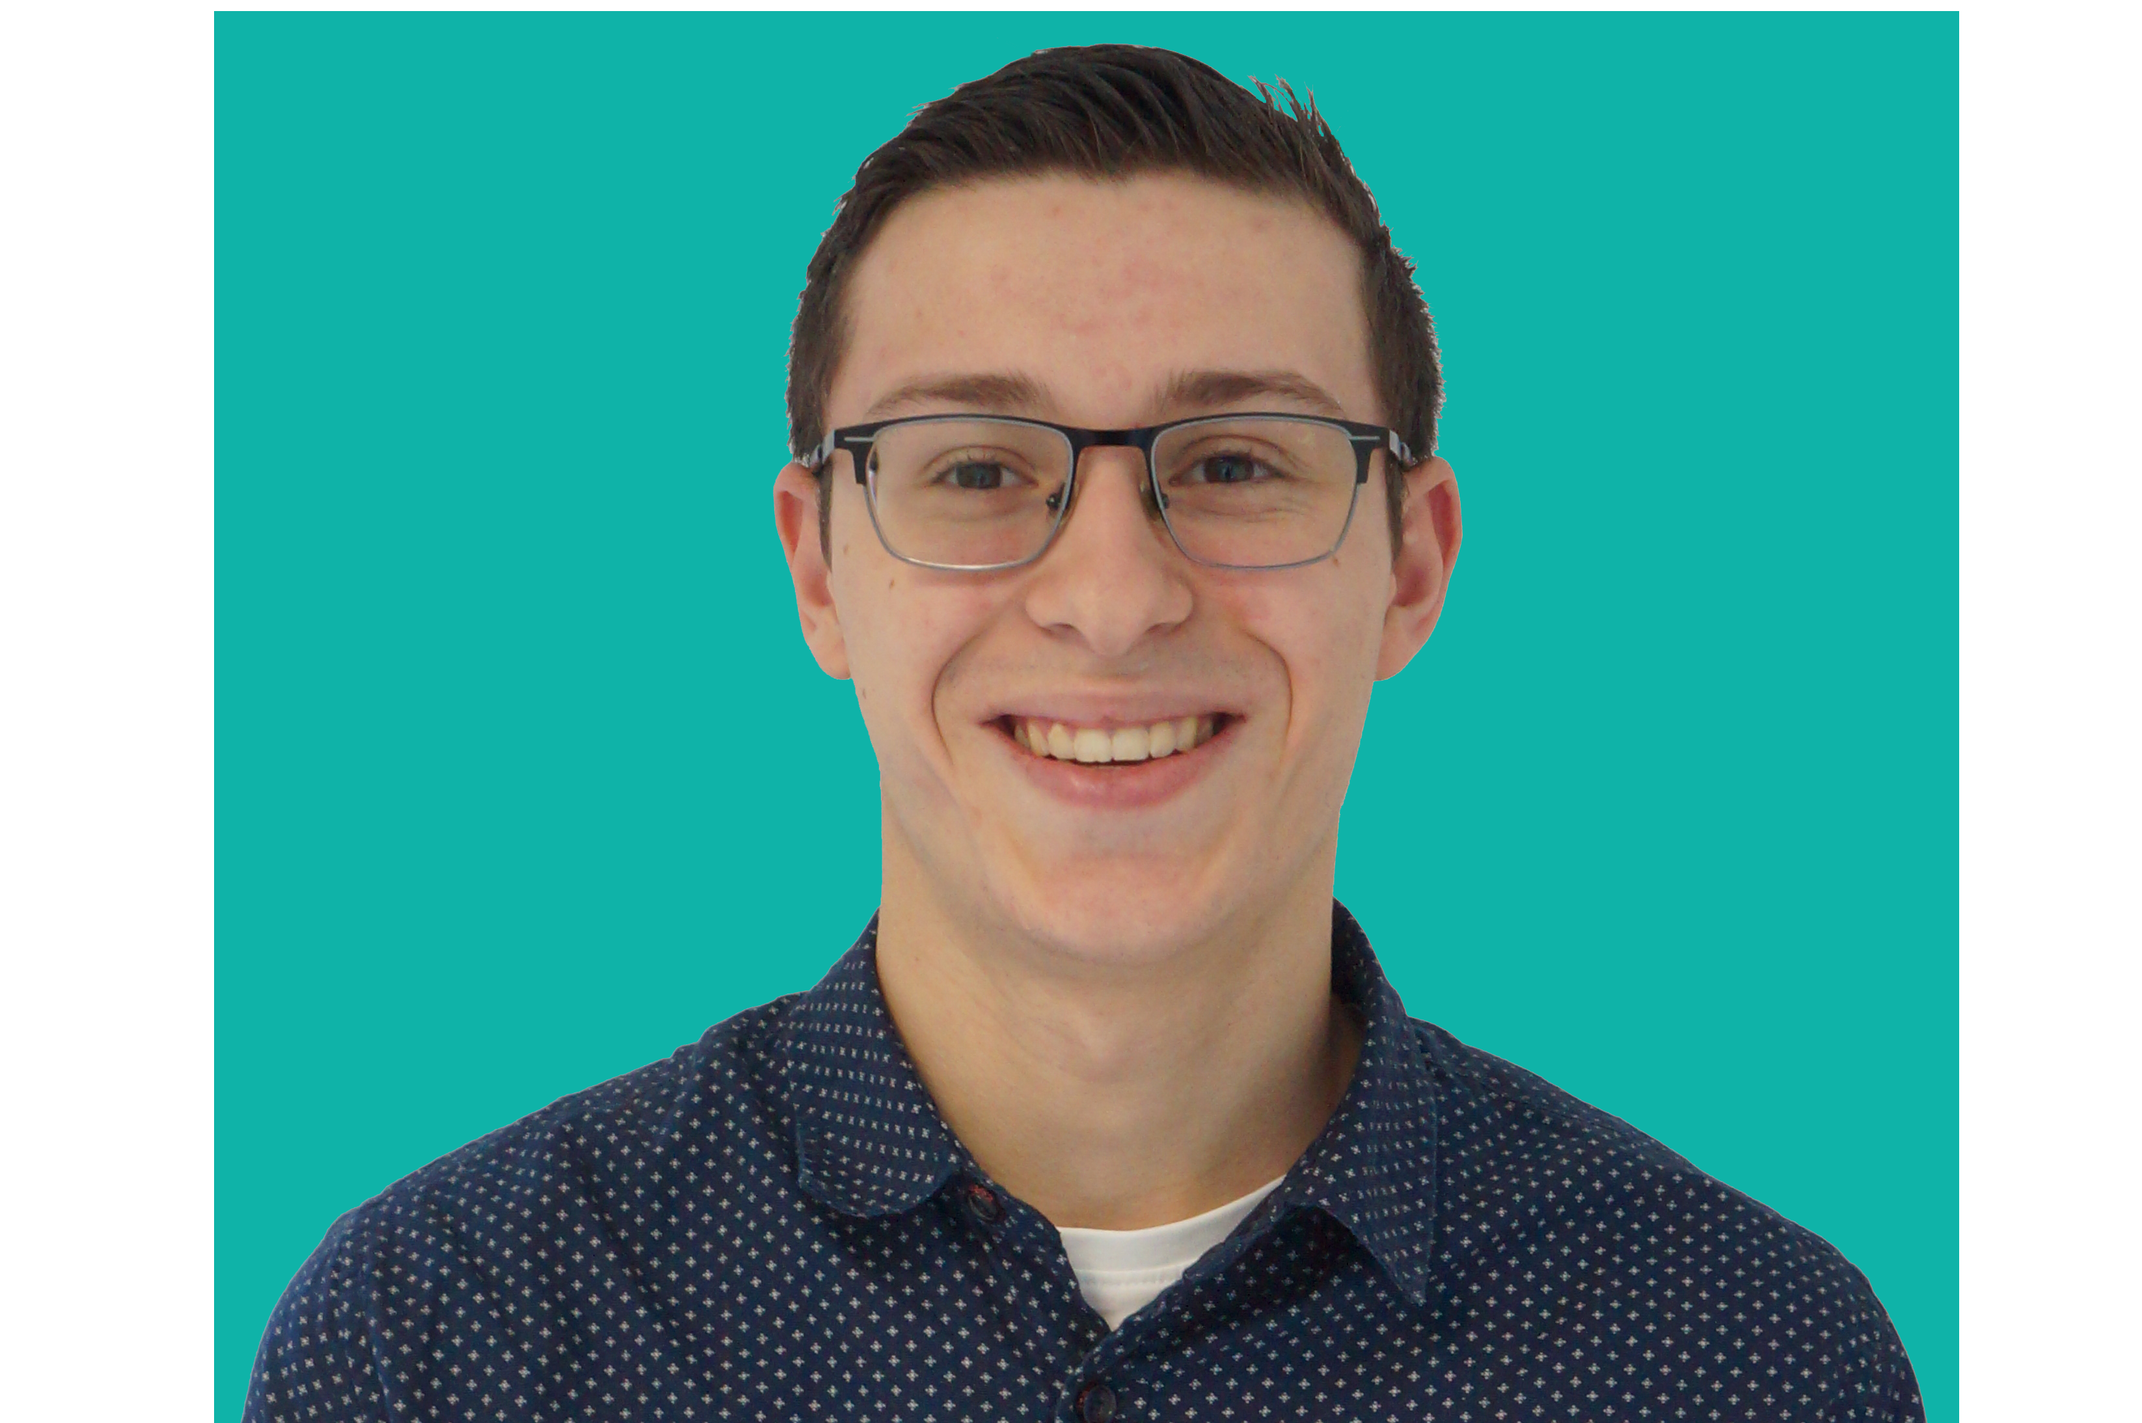
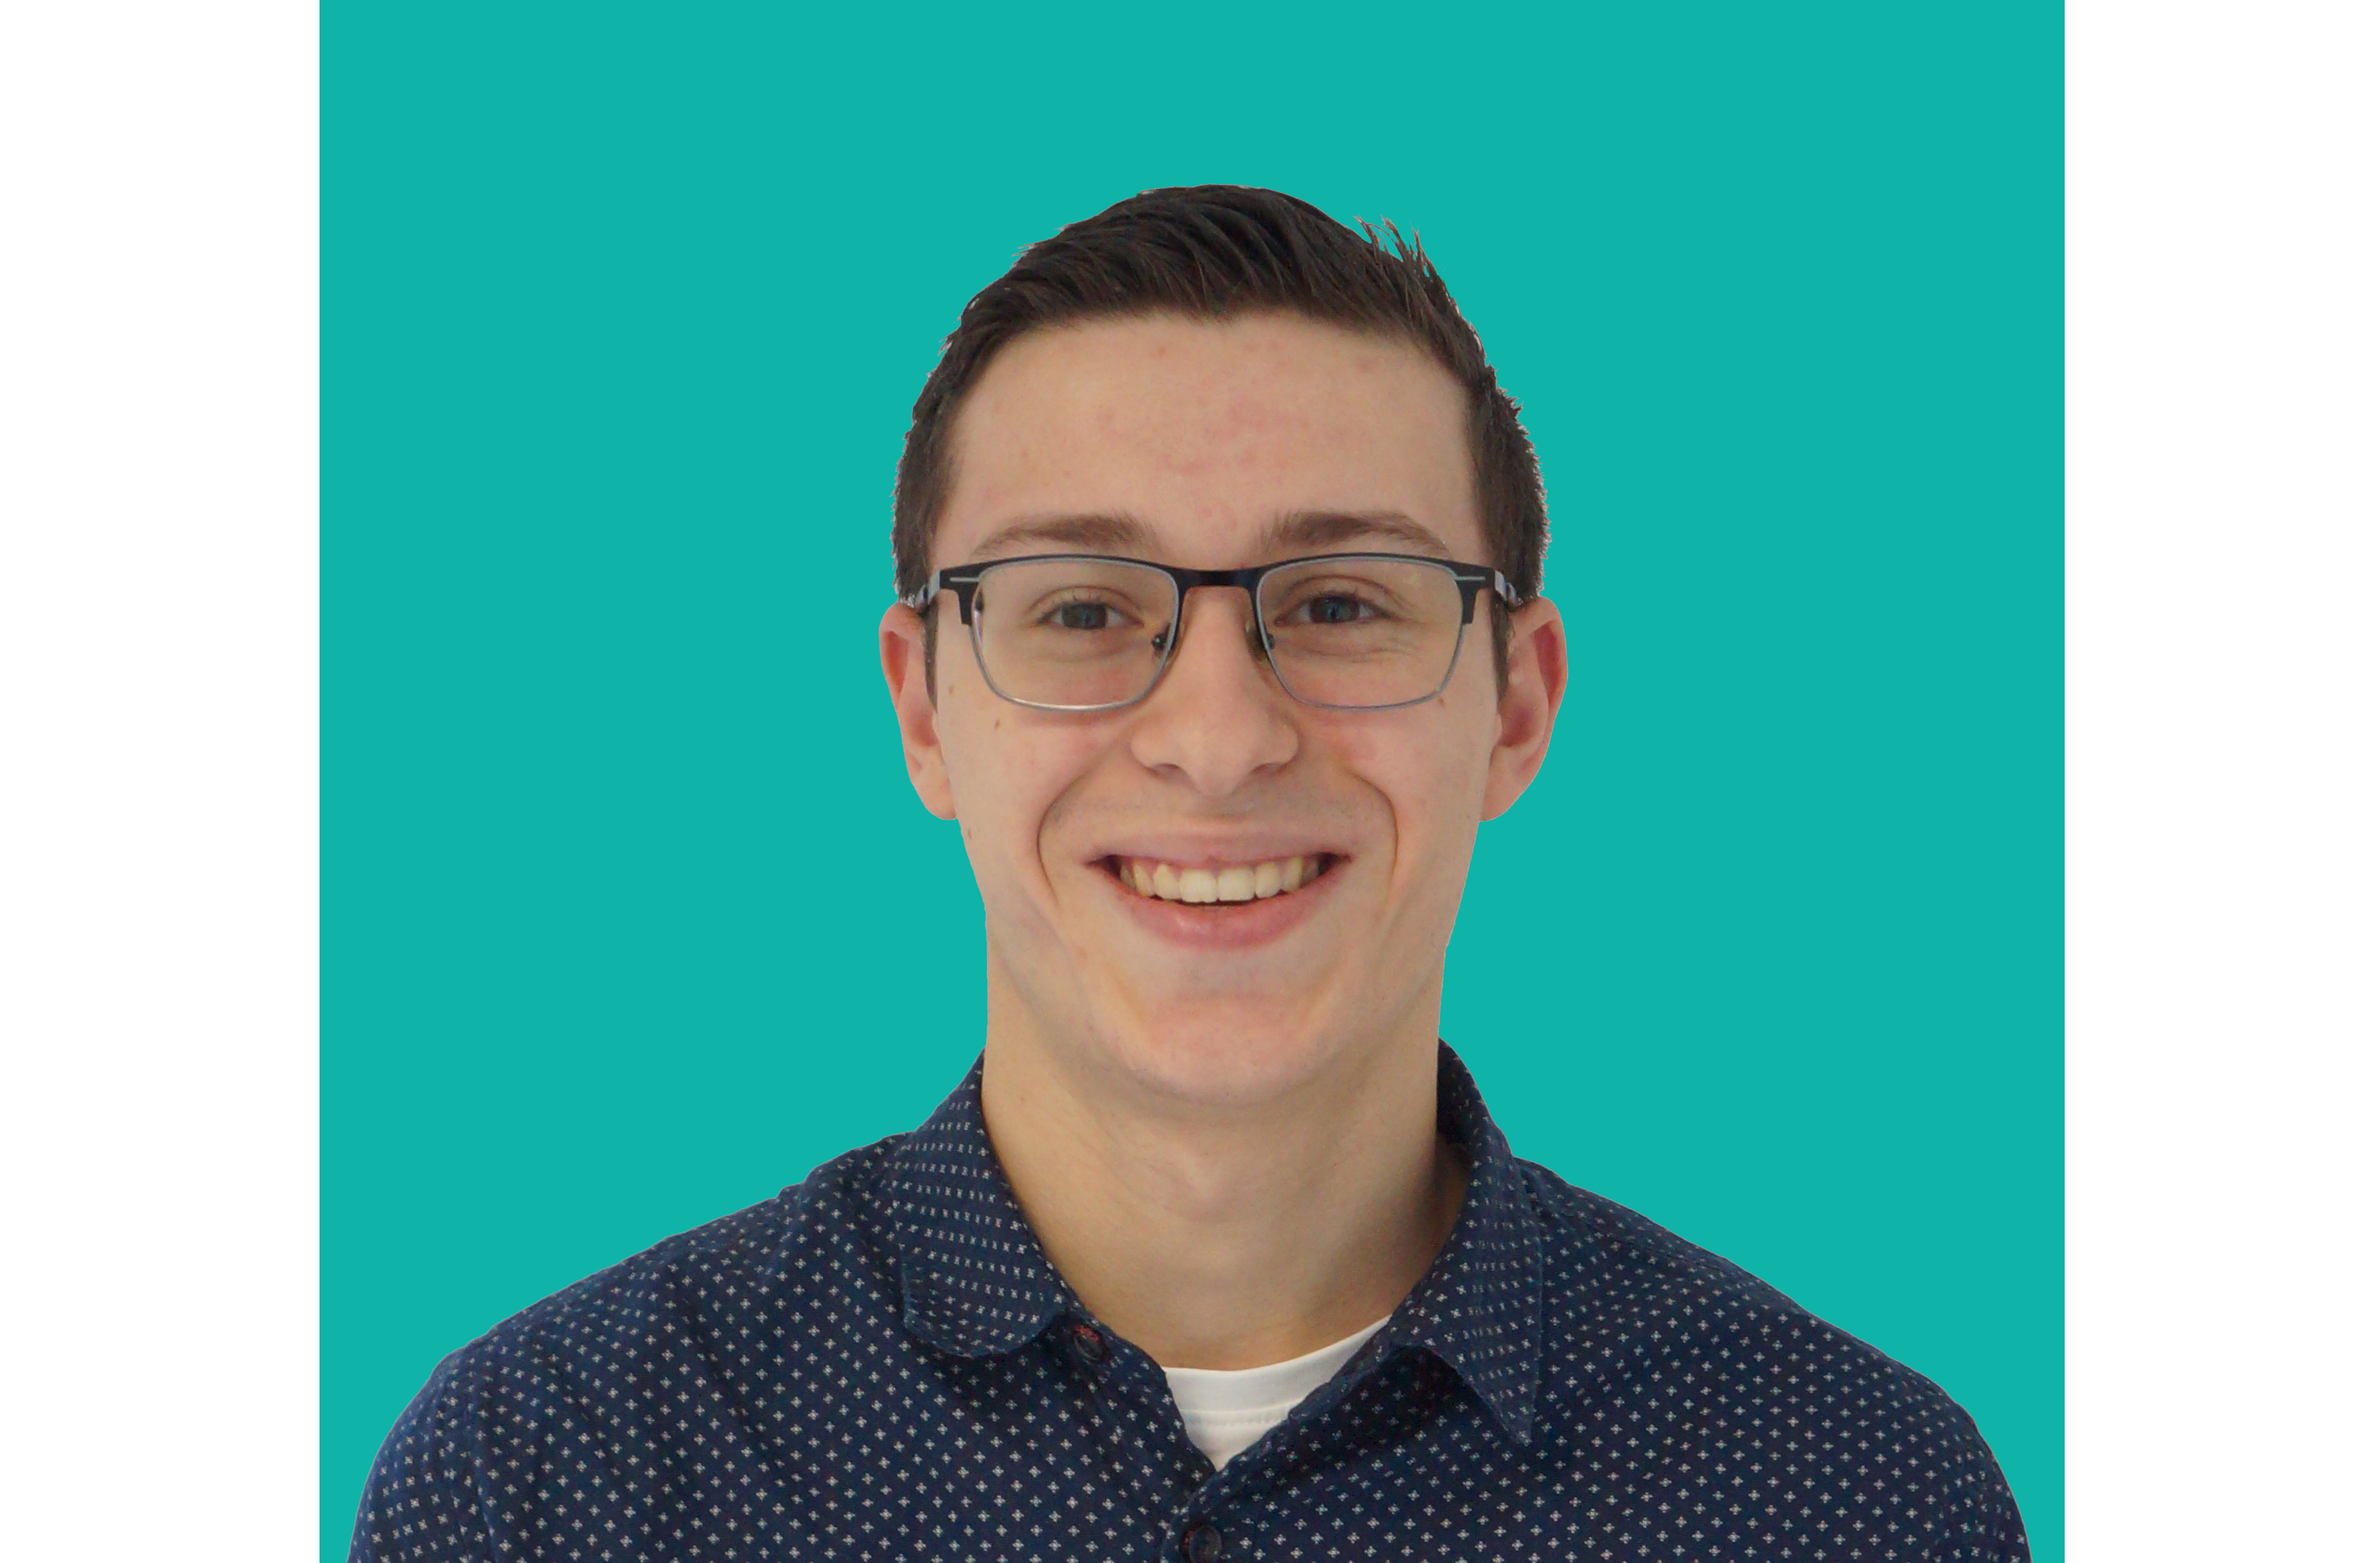
Fixes #9 - Fixed the image bug and added file in structure

Changed region(s): [[0.093, 0.0, 0.9295, 1.0]]

diff --git a/src/components/HeroSection/HeroSection.tsx b/src/components/HeroSection/HeroSection.tsx
@@ -1,29 +1,25 @@
-import dataHeroSection from './heroData.json'
+import dataHeroSection from './heroData.json';
 import HeroSectionImage from './HeroSectionImage/HeroSectionImage';
 
 const HeroSection = () => {
   return (
-    <main className="h-screen bg-main text-white ">
-        <section>
-            <article>
-                <div className='flex justify-center items-center gap-52'>
-                    <div>
-                        <div className='flex flex-col items-center'>
-                            <div className='flex gap-4 mb-3'>
-                                <h1 className="text-6xl font-bold">{dataHeroSection.nom} </h1>
-                                <h1 className="text-6xl font-bold text-text">{dataHeroSection.prenom}</h1>
-                            </div>
-                        </div>
-                        <div>
-                            <h2 className="text-2xl font-semibold">{dataHeroSection.subtitle}</h2>
-                        </div>
+    <main className=" text-white">
+        <section className="container mx-auto flex items-center">
+            <article className="flex justify-between items-center w-full mt-20">
+                <div>
+                    <div className='flex gap-4 mb-3'>
+                        <h1 className="text-7xl font-bold">{dataHeroSection.nom}</h1>
+                        <h1 className="text-7xl font-bold text-text">{dataHeroSection.prenom}</h1>
                     </div>
-                    <HeroSectionImage />
+                    <h2 className="text-4xl font-bold mb-8">{dataHeroSection.subtitle}</h2>
+                    <p className="text-lg font-semibold w-124">{dataHeroSection.description}</p>
                 </div>
+                
+                <HeroSectionImage />
             </article>
         </section>
     </main>
-  )
-}
+  );
+};
 
 export default HeroSection;

diff --git a/tailwind.config.js b/tailwind.config.js
@@ -8,7 +8,7 @@ export default {
       colors: {
         background: "#080808",
         text: "#00ffee",
-        main: "#131313",
+        main: "#0A0A0A",
       },
       textShadow: {
         sm: "0 1px 2px var(--tw-shadow-color)",
@@ -20,10 +20,10 @@ export default {
         poppins: ["Poppins", "sans-serif"],
       },
       width: {
-        124: "31rem",
+        124: "40rem",
       },
       height: {
-        124: "31rem",
+        124: "40rem",
       },
       borderRadius: {
         50: "50%",

diff --git a/src/components/HeroSection/HeroSectionImage/HeroSectionImage.tsx b/src/components/HeroSection/HeroSectionImage/HeroSectionImage.tsx
@@ -3,7 +3,7 @@ import imageCV from './../../../assets/imageCV.png'
 const HeroSectionImage = () => {
   return (
     <div>
-      <img src={imageCV} alt="hero" className="w-124 h-124 object-cover rounded-50 drop-shadow-img shadow-text cursor-pointer " />
+      <img src={imageCV} alt="hero" className="w-124 h-124 object-cover rounded-50 drop-shadow-img shadow-text cursor-pointer" />
     </div>
   )
 }

diff --git a/index.html b/index.html
@@ -6,7 +6,7 @@
     <title>Portfolio</title>
   </head>
   <body>
-    <div id="root"></div>
+    <div id="root" style="background-color: #0A0A0A; height: 100vh; z-index: 0;"></div>
     <script type="module" src="/src/main.tsx"></script>
   </body>
 </html>

diff --git a/src/components/Navbar/Navbar.tsx b/src/components/Navbar/Navbar.tsx
@@ -2,8 +2,6 @@ import React from 'react'
 
 import {NavbarProps} from '../../types/index'
 
-
-
 const Navbar: React.FC<NavbarProps> = ({ data }) => {
 
     return (

diff --git a/src/components/HeroSection/ButtonHeroSection/ButtonHeroSection.tsx b/src/components/HeroSection/ButtonHeroSection/ButtonHeroSection.tsx
@@ -1,0 +1,11 @@
+
+
+const ButtonHeroSection = () => {
+  return (
+    <div>
+      
+    </div>
+  )
+}
+
+export default ButtonHeroSection

diff --git a/src/App.tsx b/src/App.tsx
@@ -1,5 +1,6 @@
 import Home from './pages/Home'
 
+
 function App() {
   return (
     <>

diff --git a/src/components/HeroSection/ButtonHeroSection/index.ts b/src/components/HeroSection/ButtonHeroSection/index.ts
@@ -1,0 +1,1 @@
+export * from './ButtonHeroSection';

diff --git a/src/components/HeroSection/HeroSectionImage/index.ts b/src/components/HeroSection/HeroSectionImage/index.ts
@@ -1,0 +1,1 @@
+export * from './HeroSectionImage';
